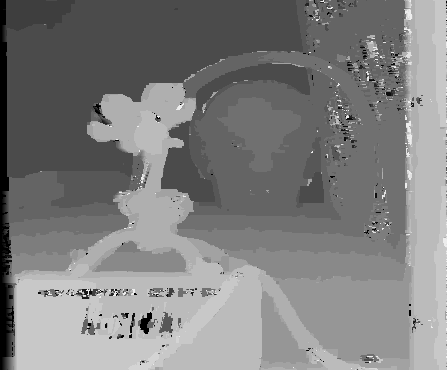
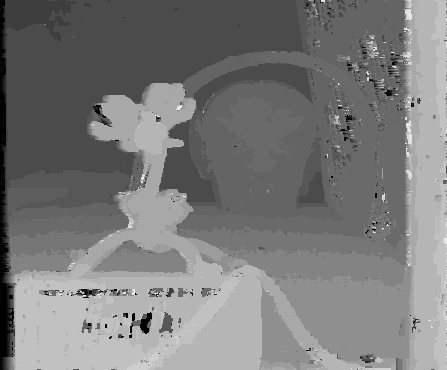
subpixel accuracy

diff --git a/src/GraphcutStereo.cpp b/src/GraphcutStereo.cpp
@@ -9,7 +9,7 @@ using namespace CVD;
 GraphcutStereo::GraphcutStereo(int argc, char **argv)
 {
     drawHighRes = false;
-    nF = 20;
+    nF = 40;
     fname.clear();
     fname.append(argv[1]);
 
@@ -252,6 +252,13 @@ void GraphcutStereo::Display()
     //std::cin.get();
 }
 
+double GraphcutStereo::SubPixVal(int x, float y, int imageIdx)
+{
+    int inty = floor(y);
+    float prey = y - inty;
+    return (1-prey)*image[imageIdx][x][inty] + prey*image[imageIdx][x][inty+1];
+}
+
 double GraphcutStereo::D(int i, int j, double dp)
 {
 
@@ -266,7 +273,7 @@ double GraphcutStereo::D(int i, int j, double dp)
                 pixVal =255;
             else
             {
-                pixVal = fabs(image[0][ii][jj] - image[1][ii][jj2]);
+                pixVal = fabs(image[0][ii][jj] - SubPixVal(ii,jj2,1));
             }
 
 //            double sum = 0;
@@ -342,16 +349,16 @@ double GraphcutStereo::V(int i1, int j1, double dp1, int i2, int j2, double dp2)
 //    return val;
 
     double val = 0;
-    val = 10*fabs(dp1-dp2);
-    if(val >= 20)
+    val = 5*fabs(dp1-dp2);
+    if(val >= 50)
     {
-        val = 20;
+        val = 50;
     }
 
     return val;
 }
 
-double GraphcutStereo::E(Image<byte> &disp)
+double GraphcutStereo::E(Image<float> &disp)
 {
     double energy = 0;
     ImageRef size = image[0].size();
@@ -381,7 +388,7 @@ float GraphcutStereo::Disparity2Depth(int disp)
 
 void GraphcutStereo::DisparityMedian()
 {
-    Image<CVD::byte> tmp;
+    Image<float> tmp;
     tmp.copy_from(disparity);
 
     int rr=5;
@@ -421,7 +428,7 @@ bool GraphcutStereo::AlphaExpansion(int f)
 
     static double lastE=99999999999;
 
-    Image<byte> newdisp(disparity.copy_from_me());
+    Image<float> newdisp(disparity.copy_from_me());
     //std::map<std::pair<int,int>, GraphType::node_id> nodeidMap;
 
     int initF = (f==-1)?0:f;
@@ -436,8 +443,8 @@ bool GraphcutStereo::AlphaExpansion(int f)
         timeval t1;
        gettimeofday(&t1, NULL);
 
-        int f = F[k];
-        printf("alpha = %d\n", f);
+        double f = ((double)(F[k]))*0.5;
+        printf("alpha = %f\n", f);
 
         for(int i=0; i<size.y; i++)
             for(int j=0; j<size.x; j++)

diff --git a/src/GraphcutStereo.h b/src/GraphcutStereo.h
@@ -16,7 +16,7 @@ public:
     void Run();
     void Update();
 
-    CVD::Image<CVD::byte> disparity;
+    CVD::Image<float> disparity;
 
     void glDraw();
 
@@ -29,7 +29,8 @@ private:
     //cost functions
     double D(int i, int j, double dp);
     double V(int i1, int j1, double dp1, int i2, int j2, double dp2);
-    double E(CVD::Image<CVD::byte> & disp);
+    double E(CVD::Image<float> & disp);
+    double SubPixVal(int x, float y, int imageIdx);
 
     void Display();
     double RGB2Y(CVD::Rgb<CVD::byte> rgb){return rgb.red * 0.299 + rgb.green * 0.587 + rgb.blue * 0.114;}
@@ -55,7 +56,7 @@ private:
 
 
     //subsamplings
-    CVD::Image<CVD::byte> disparity4x4;
+    CVD::Image<float> disparity4x4;
     CVD::Image<CVD::Rgb<CVD::byte> > img0_4x4;
     bool drawHighRes;
 };
